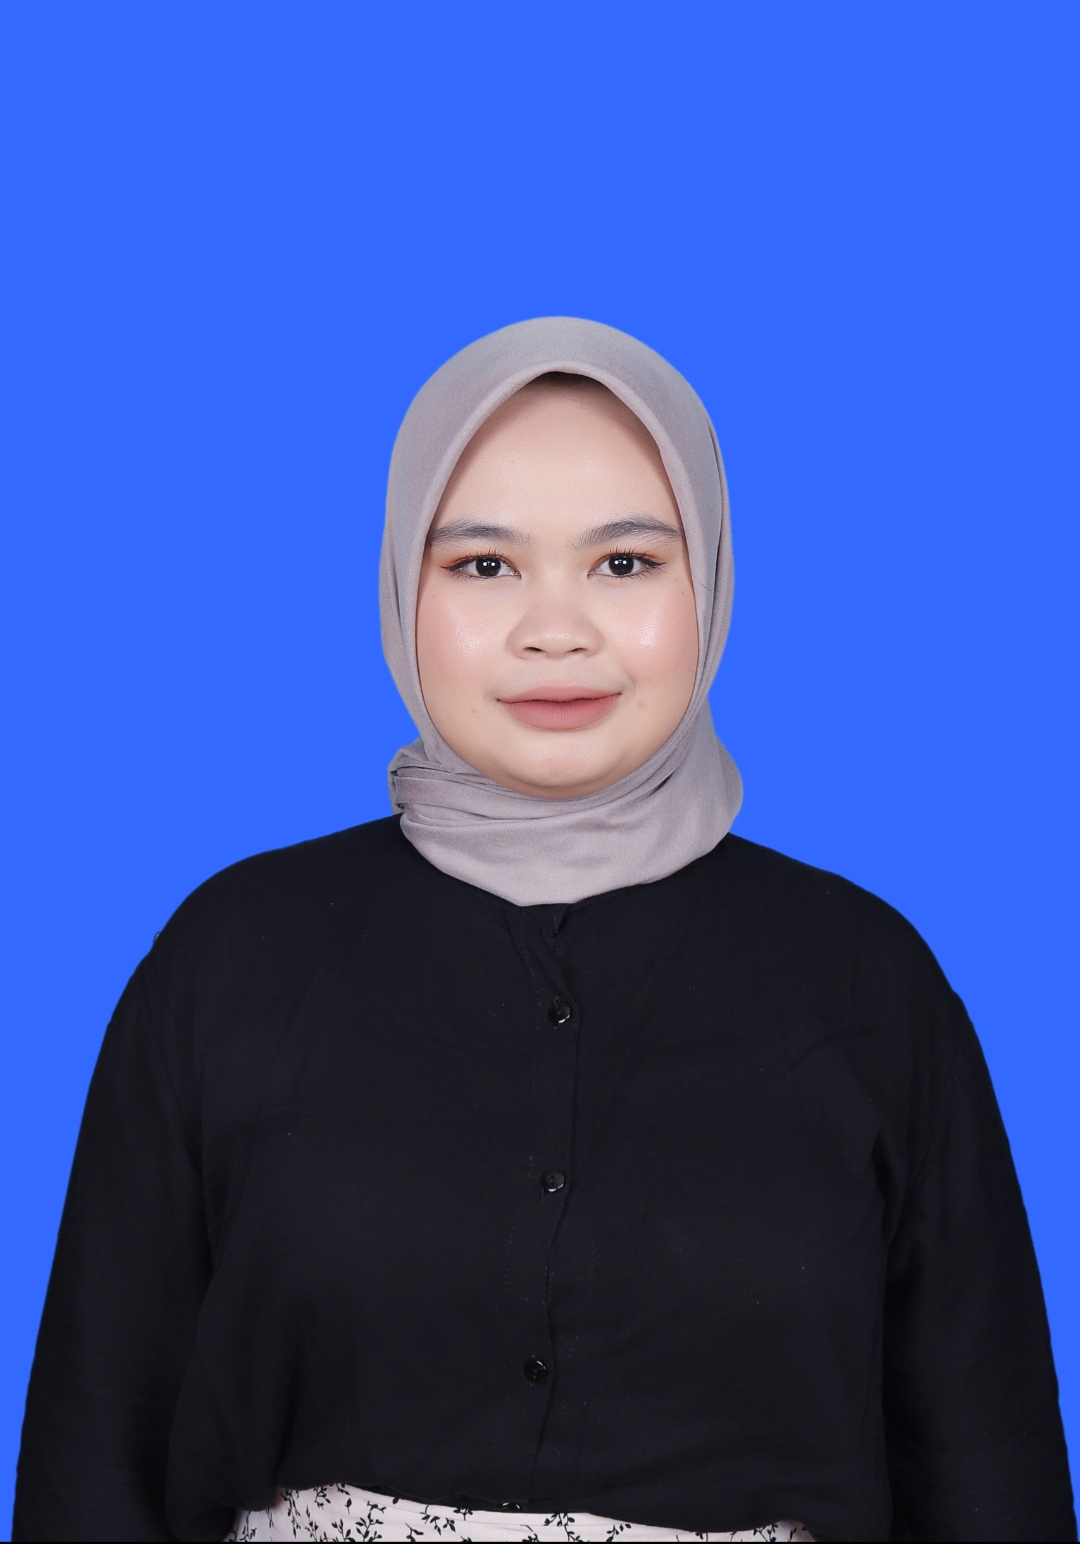
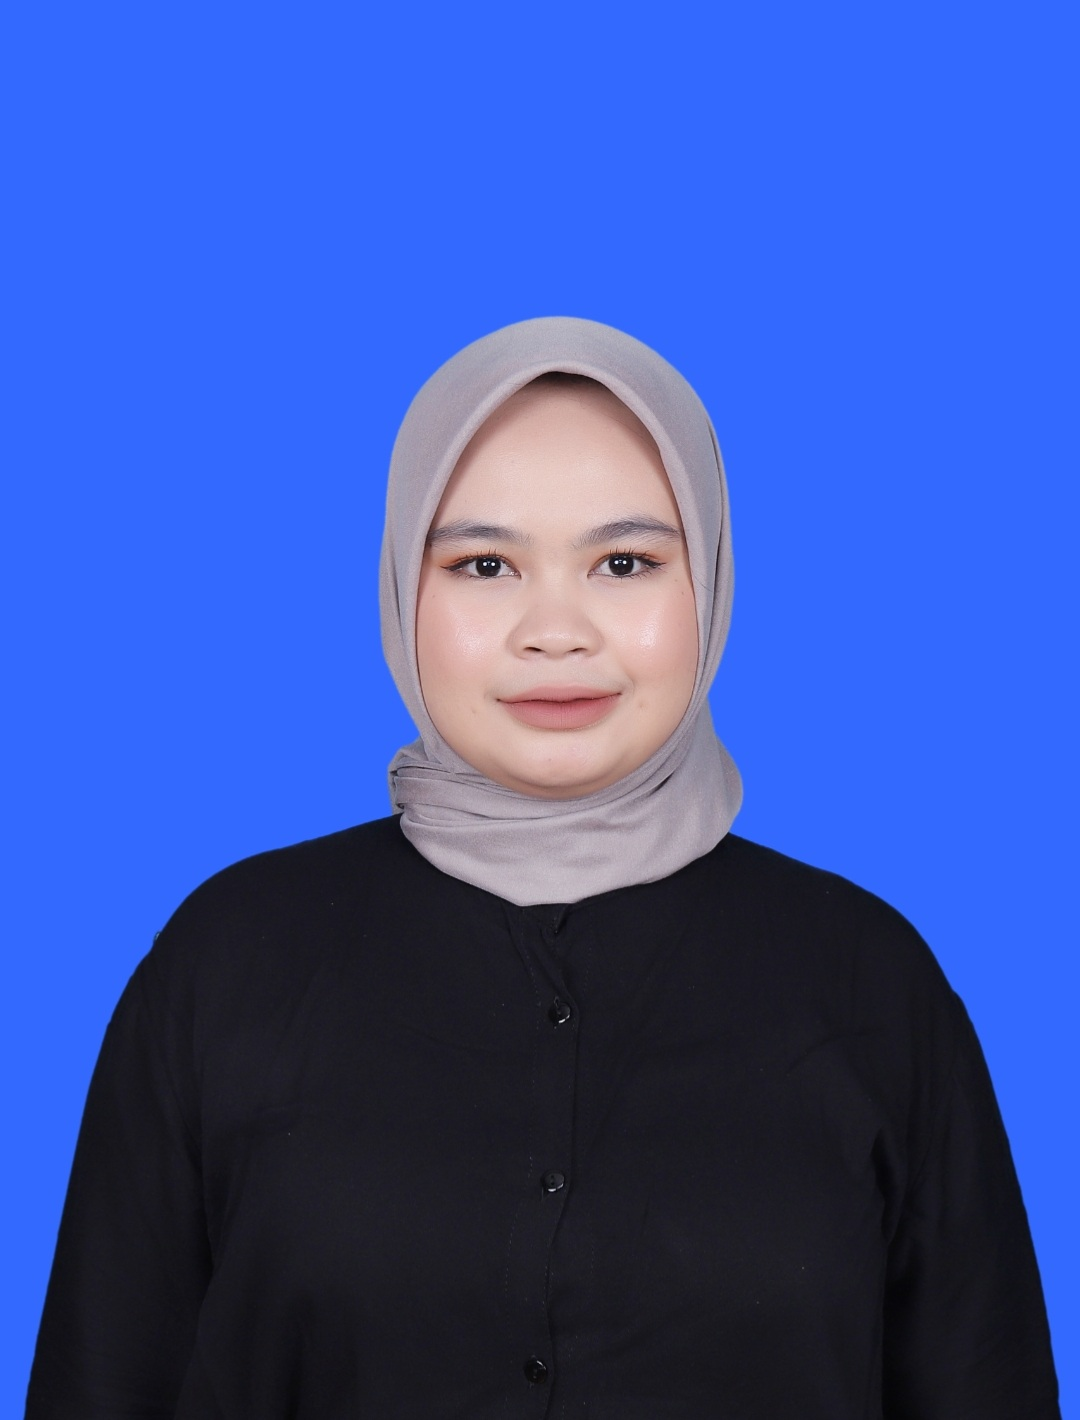
Fix photo framing and position for bride and groom

diff --git a/index.html b/index.html
@@ -10,14 +10,14 @@
     <meta name="google" content="notranslate">
     <title>Sri 💕 Asep</title>
     <meta name="title" content="Sri 💕 Asep">
-    <meta name="description" content="Hadiri acara pernikahan kami pada Sabtu, 09 September 2026 Ya!">
+    <meta name="description" content="Hadiri acara pernikahan kami pada Rabu, 09 September 2026 Ya!">
     <meta itemprop="image" content="https://kirimdigi.github.io/Asep-Sri/4_compressed.jpg">
     <link rel="icon" type="image/x-icon" href="kirimdigi.jpg">
     <!-- Open Graph / Facebook -->
     <meta property="og:type" content="website">
     <meta property="og:url" content="https://kirimdigi.github.io/Asep-Sri/">
     <meta property="og:title" content="Wedding  - Sri &amp; Asep">
-    <meta property="og:description" content="Hadiri acara pernikahan kami pada Sabtu, 09 September 2026 Ya!">
+    <meta property="og:description" content="Hadiri acara pernikahan kami pada Rabu, 09 September 2026 Ya!">
     <meta property="og:image" content="https://kirimdigi.github.io/Asep-Sri/4_compressed.jpg">
     <meta property="og:image:secure_url" content="https://kirimdigi.github.io/Asep-Sri/4_compressed.jpg">
     <meta property="og:image:width" content="1200">
@@ -267,7 +267,7 @@
                                                     <div
                                                         style="border-radius:10rem;overflow:hidden;position:absolute;top:0;right:0;bottom:0;left:0;margin:11%;">
                                                         <img src="1.jpeg"
-                                                            style="width: 100%; height: 100%; object-fit: cover; object-position: center bottom;"
+                                                            style="width: 100%; height: 100%; object-fit: cover; object-position: center 25%;"
                                                             alt="no-image.jpg">
                                                     </div>
                                                 </div>
@@ -292,7 +292,7 @@
                                                     <div
                                                         style="border-radius:10rem;overflow:hidden;position:absolute;top:0;right:0;bottom:0;left:0;margin:11%;">
                                                         <img src="2.jpeg"
-                                                            style="width: 100%; height: 100%; object-fit: cover;"
+                                                            style="width: 100%; height: 100%; object-fit: cover; object-position: center 20%;"
                                                             alt="no-image.jpg">
                                                     </div>
                                                 </div>
